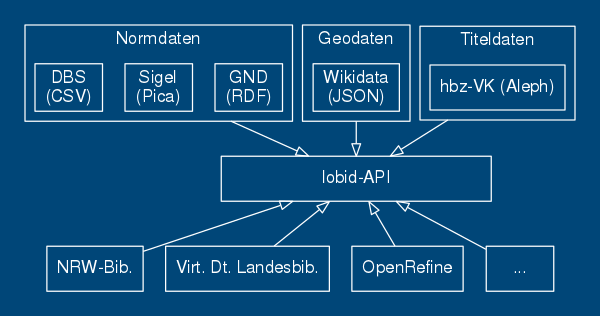
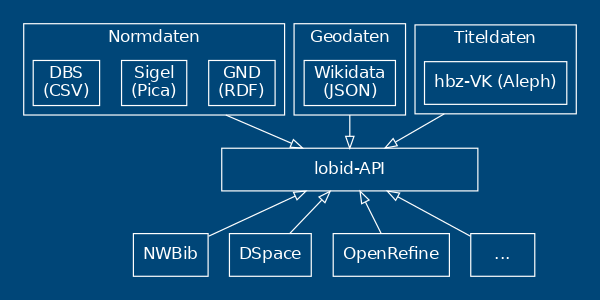
Finish first draft of Bibtag21 slides

diff --git a/2021-06-17-bibtag21/index.html b/2021-06-17-bibtag21/index.html
@@ -4,12 +4,11 @@
 <head>
 	<meta charset="utf-8">
 
-	<title>Offene Infrastruktur für bibliothekarische Daten: Linked Open Data, JSON &amp; OpenRefine in der Praxis</title>
+	<title>Integration der gemeinsamen Normdatei in DSpace auf Basis von lobid</title>
 
 	<meta name="description"
-		content="Offene Infrastruktur für bibliothekarische Daten: Linked Open Data, JSON & OpenRefine in der Praxis">
+		content="Integration der gemeinsamen Normdatei in DSpace auf Basis von lobid">
 	<meta name="author" content="Adrian Pohl">
-	<meta name="author" content="Fabian Steeg">
 
 	<meta name="apple-mobile-web-app-capable" content="yes">
 	<meta name="apple-mobile-web-app-status-bar-style" content="black-translucent">
@@ -93,34 +92,12 @@
 				</p>
 				<small>
 					Diese Präsentation: <br /> <a
-						href="http://slides.lobid.org/2021-06-17-bibtag21/">http://slides.lobid.org/2021-06-17-bibtag21/</a> (<a href="https://slides.lobid.org/2020-zbiw/2020-zbiw-lobid.pdf">PDF</a>)
+						href="http://slides.lobid.org/2021-06-17-bibtag21/">http://slides.lobid.org/2021-06-17-bibtag21/</a>
 					<br />
 					<a rel="license" href="http://creativecommons.org/licenses/by/4.0/"><img
 							alt="Creative Commons License" style="border-width:0" src="img/cc-by.png"
 							title="Licensed under a Creative Commons Attribution 4.0 International License"></a>
 					</small>
-			</section>
-
-			<section data-state="adrian">
-				<h2>Agenda</h2>
-				<table>
-					<tr>
-						<th width="75%" />
-						<th width="25%" />
-					</tr>
-					<tr>
-						<td>1. Offene Infrastruktur</td>
-						<td></td>
-					</tr>
-					<tr>
-						<td>2. Linked Data &amp; JSON-LD</td>
-						<td></td>
-					</tr>
-					<tr>
-						<td>3. OpenRefine Reconciliation</td>
-						<td></td>
-					</tr>
-				</table>
 			</section>
 
 			<section data-state="adrian">
@@ -132,8 +109,7 @@
 
 			<section data-state="adrian">
 				<h1>hbz-Gruppe <em>Offene Infrastruktur</em></h1>
-				<p><span class="fragment">Offene Daten und Free Software, Offene Standards und Schnittstellen</span></p>
-				<p><span class="fragment">Infrastruktur für die Publikation von Daten im Web</span></p>
+				<p><span class="fragment">Offenheit der genutzten Standards, der Daten, Software und Schnittstellen</span></p>
 				<p><span class="fragment">Derzeit fünf Personen: 3 Entwickler*innen und zwei Bibliothekare</span></p>
 				<p><span class="fragment">Arbeitsschwerpunkte: <a href=""https://lobid.org>lobid</a>, <a href="https://metafacture.org">Metafacture</a>, <a href="https://oersi.de">OERSI</a>, <a href="https://skohub.io">SkoHub</a></span></p>
 			</section>
@@ -142,7 +118,8 @@
 				<h3><a href="https://lobid.org"><img src="img/lobid.png" style="border: none; padding: 5px; background-color: white" height="100px" /></a></h3>
 				<p><span class="fragment"><i>lobid</i> steht für <i>Linking Open Bibliographic Data</i></span></p>
 				<p><span class="fragment">Unter lobid.org publiziert das hbz seit 2011 Linked Open Data (LOD), inzwischen in 3 Diensten</span></p>
-				<p><span class="fragment">Stellen web-basierte Rechercheoberflächen und Schnittstellen bereit</span></p>
+				<p><span class="fragment">Web-basierte Rechercheoberflächen und offene Schnittstellen</span></p>
+				<p><span class="fragment">Viele verschiedene Nutzer*innen aus dem gesamten deutschsprachigen Raum (siehe z.B. diese <a href="https://service-wiki.hbz-nrw.de/x/NAAxJQ">Liste</a>)</span></p>
 			</section>
 
 
@@ -155,6 +132,11 @@
 				<p><span class="fragment"><a href="https://lobid.org/gnd">lobid-gnd</a>: Gemeinsame Normdatei</span></p>
 			</section>
 
+			<section  data-state="fabian">
+				<h3>Datenquellen</h3>
+				<img src="img/lobid-data.png" width="800" />
+			</section>
+
 			<section data-state="fabian">
 				<h2>lobid-gnd</h2>
 				<a href="https://lobid.org/gnd"><img src="img/lobid-gnd.png" width=650 style="border: none; box-shadow: none;" /></a>
@@ -163,7 +145,7 @@
 			<section data-state="fabian">
 				<h2>GND als LOD von der DNB</h2>
 				<p><span class="fragment">Die DNB publiziert die GND unter anderem als Linked Open Data (LOD) unter <a href="https://data.dnb.de/opendata/">https://data.dnb.de/opendata/</a></span></p>
-				<p><span class="fragment">Zusätzliche Anreicherungen, z.B. Links in <a href="https://www.dnb.de/DE/Professionell/Metadatendienste/Datenbezug/Entity-Facts/entityFacts_node.html">EntityFacts</a></span></p>
+				<p><span class="fragment">Zusätzliche Anreicherungen, z.B. Links, in <a href="https://www.dnb.de/entityfacts">EntityFacts</a></span></p>
 				<p><span class="fragment">Diese Daten bilden die Grundlage für <a href="https://lobid.org/gnd">lobid-gnd</a></span></p>
 			</section>
 
@@ -216,7 +198,7 @@
 			</section>
 
 			<section  data-state="fabian">
-				<h3>b. Web-API</h3>
+				<h3>Web-API</h3>
 				<a href="https://lobid.org/gnd/api"><img src="img/lobid-gnd-api.png" width="500" /></a>
 			</section>
 
@@ -227,23 +209,31 @@
 							href="https://www.elastic.co/guide/en/elasticsearch/reference/current/query-dsl-query-string-query.html#query-string-syntax">Elasticsearch</a>
 						bzw. <a href="https://lucene.apache.org/core/2_9_4/queryparsersyntax.html">Lucene</a>
 						Suchsyntax</span></p>
-				<p><span class="fragment"><a href="https://lobid.org/gnd/api#content_types">Für Einzeltreffer: RDF per Content Negotiation</a></span></p>
 				<p><span class="fragment"><a href="https://lobid.org/gnd/api#auto-complete">API für Auto
 							Suggest</a></span></p>
 				<p><span class="fragment"><a href="https://lobid.org/gnd/api#bulk_downloads">API für Bulk
 							Downloads</a></span></p>
-				<p><span class="fragment"><a href="https://lobid.org/gnd/reconcile/">OpenRefine Reconciliation</a> | 
-							<a href="https://lobid.org/gnd/api#openrefine">API</a></span></p>
+				<p><span class="fragment"><a href="https://lobid.org/gnd/reconcile/">OpenRefine Reconciliation</a></span></p>
 			</section>
 
 			<section data-state="fabian">
-				<h2>/reconcile</h2>
-				<a href="https://lobid.org/gnd"><img src="img/lobid-gnd-reconcile.png" width=650 style="border: none; box-shadow: none;" /></a>
+				<h2>Und nun zu Pascal, der die Nutzung der lobid-gnd-API an einem konkreten Beispiel zeigt.</h2>
 			</section>
 
-			<section data-state="fabian">
-				<h3>Abgleich und Anreicherung lokaler Daten mit der GND</h3>
-				<img src="img/refine-screenshot.png" width=750 style="border: none; box-shadow: none;" />
+			<section>
+				<h2>Weiterführende Informationen</h2>
+				<ul style=font-size:25px;>
+					<li><a href="http://blog.lobid.org/">lobid-Blog</a>, <a href="http://slides.lobid.org/">Präsentationsfolien</a>, <a href="https://twitter.com/lobidOrg">lobid auf Twitter</a> und <a
+							href="https://openbiblio.social/@lobid">Mastodon</a></li>
+					<li>Pohl, Adrian / Steeg, Fabian / Christoph, Pascal (2018): lobid – Dateninfrastruktur für
+						Bibliotheken. In: Informationspraxis 4(1). <a
+							href="https://doi.org/10.11588/ip.2018.1.52445">https://doi.org/10.11588/ip.2018.1.52445</a>
+					</li>
+					<li>Steeg, Fabian / Pohl, Adrian / Christoph, Pascal (2019): lobid-gnd – Eine Schnittstelle zur
+						Gemeinsamen Normdatei für Mensch und Maschine. In: Informationspraxis 5(1). <a
+							href="https://doi.org/10.11588/ip.2019.1.52673">https://doi.org/10.11588/ip.2019.1.52673</a>
+					</li>
+				</ul>
 			</section>
 
 		</div>
@@ -253,9 +243,6 @@
 	<script src="js/reveal.js"></script>
 
 	<script>
-		Reveal.addEventListener('adrian', function () { document.querySelector('#footer-left').innerHTML = 'A'; });
-		Reveal.addEventListener('fabian', function () { document.querySelector('#footer-left').innerHTML = 'F'; });
-		Reveal.addEventListener('alle', function () { document.querySelector('#footer-left').innerHTML = '*'; });
 		// Full list of configuration options available at:
 		// https://github.com/hakimel/reveal.js#configuration
 		Reveal.initialize({
